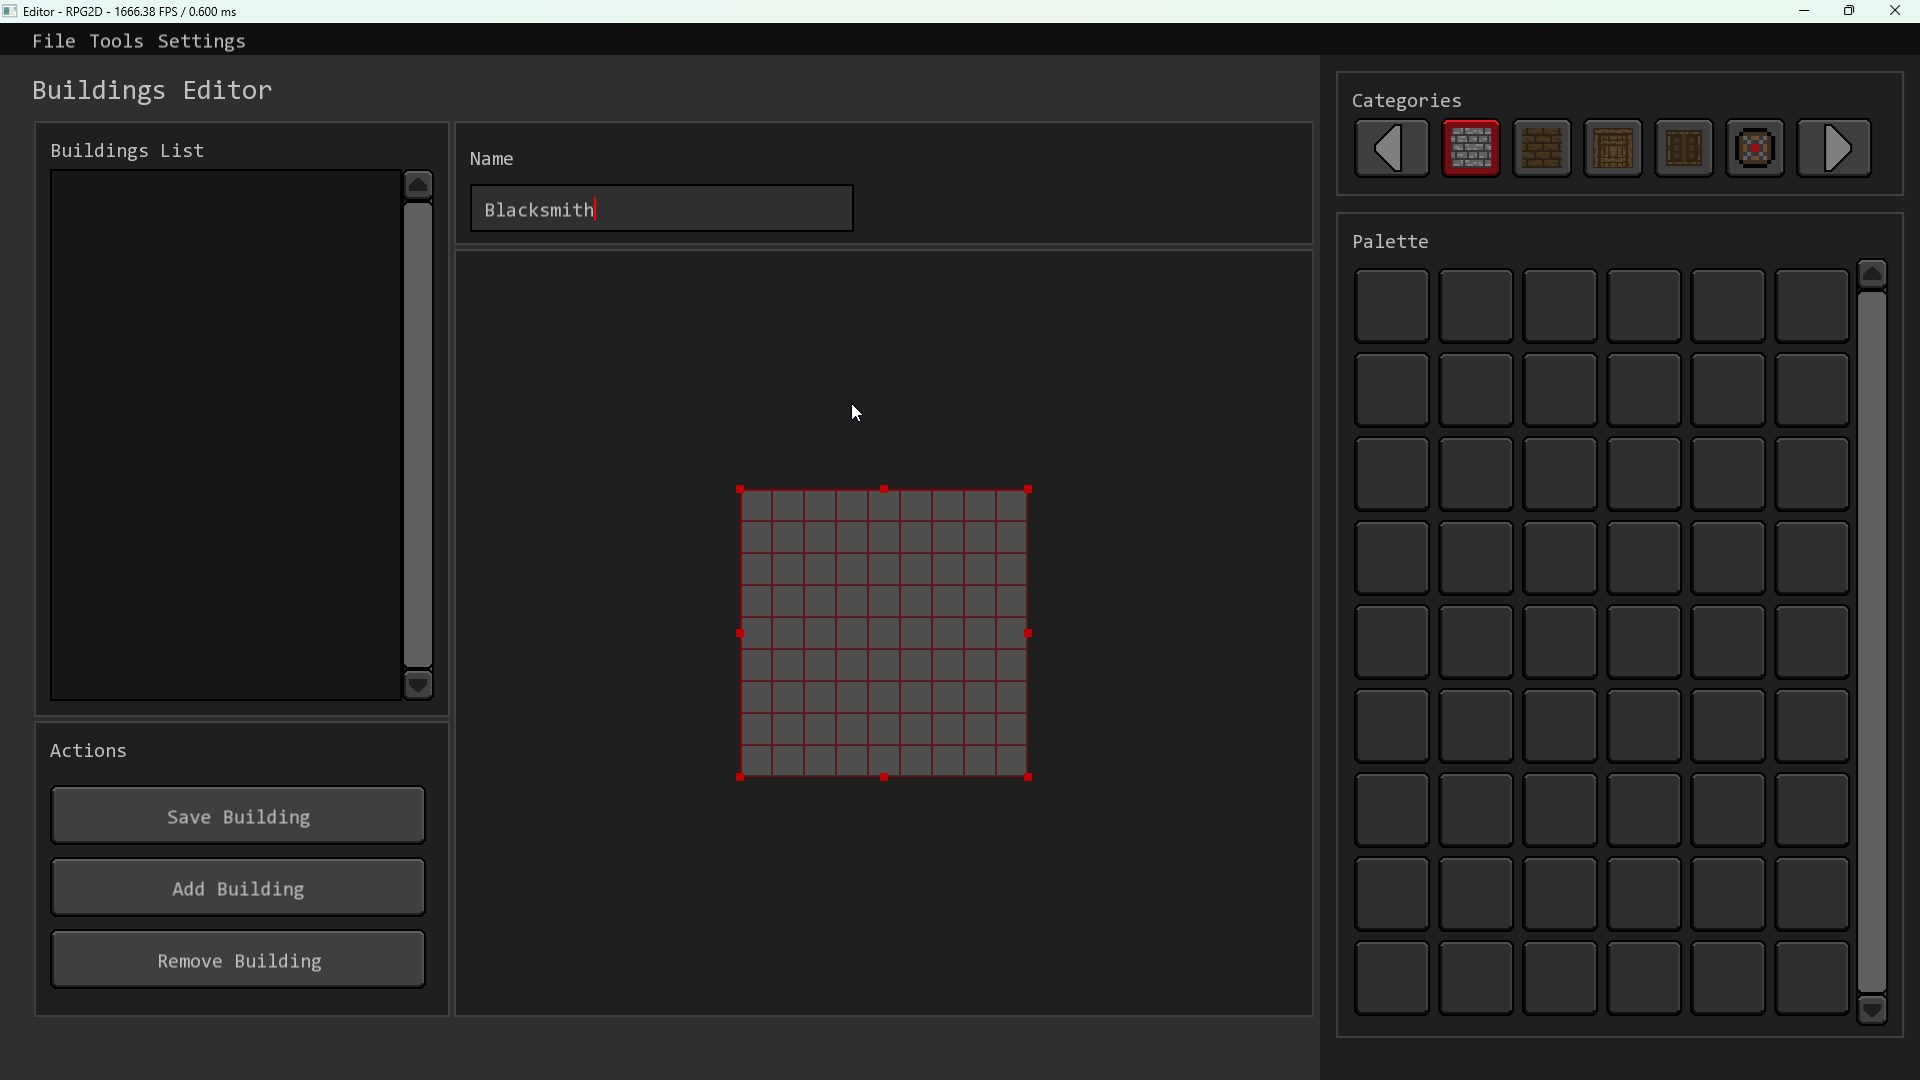
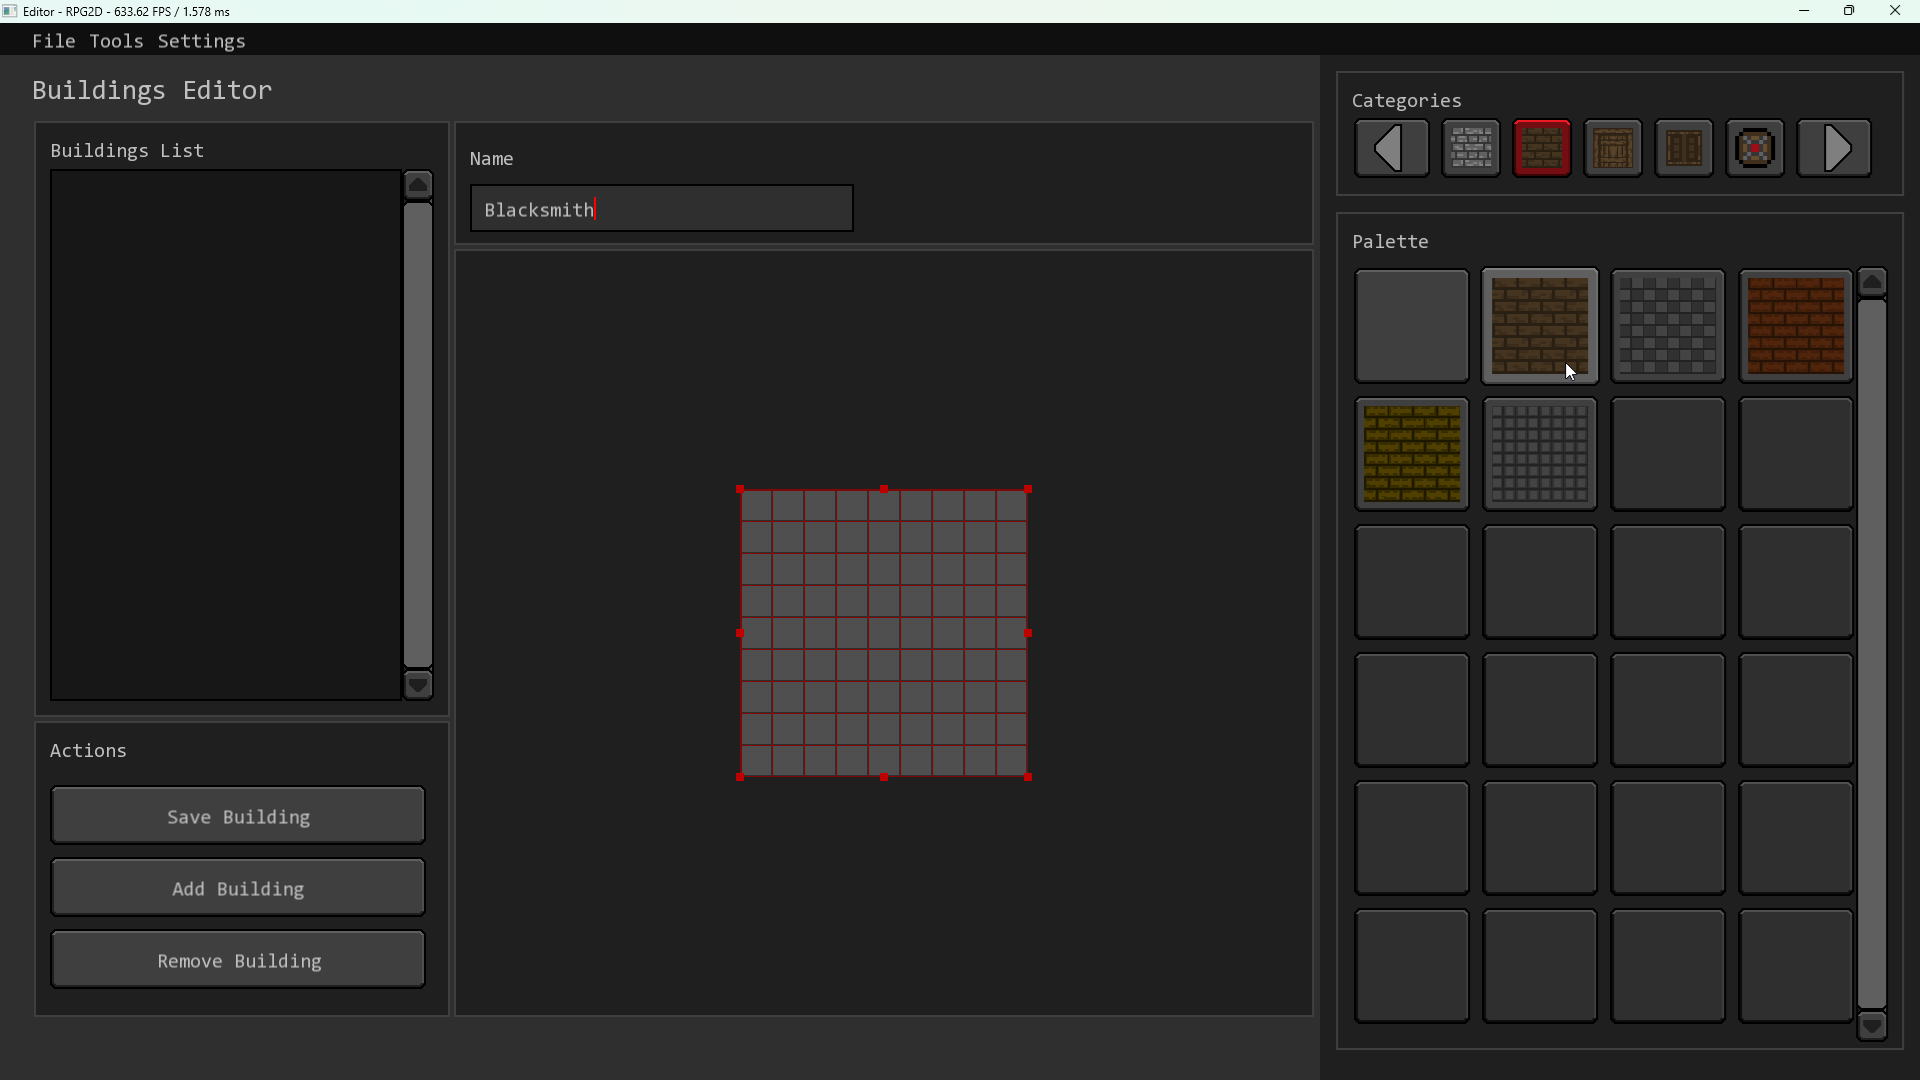
Add - Different Floor Types to the Palette

Changed region(s): [[0.6875, 0.2444, 1.0, 0.9778], [0.75, 0.0917, 0.8438, 0.1833], [0.0625, 0.0, 0.125, 0.0306]]

diff --git a/Editor-RPG2D/src/Components/Palette/FloorSlot.cpp b/Editor-RPG2D/src/Components/Palette/FloorSlot.cpp
@@ -1,0 +1,48 @@
+#include "Components/Palette/FloorSlot.hpp"
+#include "RenderWindow.hpp"
+
+std::shared_ptr<Texture> FloorSlot::_floorset = nullptr;
+
+FloorSlot::FloorSlot(std::shared_ptr<Texture> texture, std::shared_ptr<Texture> hoverTexture, std::shared_ptr<Texture> pressTexture, std::shared_ptr<Texture> inactiveTexture, sf::Vector2i position, int index) : Slot(texture, hoverTexture, pressTexture, inactiveTexture, position) {
+	if(_floorset == nullptr)
+		_floorset = textures_manager->getTexture(L"assets\\tex\\floorset.png");
+
+	_index = index;
+}
+
+FloorSlot::~FloorSlot() {
+
+}
+
+void FloorSlot::setIndex(int index) {
+	_index = index;
+}
+
+void FloorSlot::cursorHover() {
+	ButtonWithSprite::cursorHover();
+}
+
+void FloorSlot::handleEvent(const sf::Event& event) {
+	ButtonWithSprite::handleEvent(event);
+}
+
+void FloorSlot::update() {
+	ButtonWithSprite::update();
+}
+
+void FloorSlot::draw() {
+	Slot::draw();
+
+	if(_index < 0)
+		return;
+
+	sf::Vector2f size(96, 96);
+	sf::Vector2f offset((120.f - size.x) / 2.f, (120.f - size.y) / 2.f);
+
+	sf::Sprite sprite(*_floorset->_texture);
+	sprite.setScale(sf::Vector2f(size.x / 64.f, size.y / 64.f));
+	sprite.setPosition(sf::Vector2f(_rect.position) + offset);
+	sprite.setTextureRect(sf::IntRect(sf::Vector2i(_index * 64, 0), sf::Vector2i(64, 64)));
+
+	Main::render_window->draw(sprite);
+}

diff --git a/Editor-RPG2D/src/Components/Palette/Slots.cpp b/Editor-RPG2D/src/Components/Palette/Slots.cpp
@@ -2,6 +2,8 @@
 #include "Objects/Terrain.hpp"
 #include "Components/Palette/TerrainSlot.hpp"
 #include "Components/Palette/GameObjectSlot.hpp"
+#include "Components/Palette/FloorSlot.hpp" // TO-DO - to delete
+#include "Components/Palette/Slot.hpp" // TO-DO - to delete
 #include "PrefabsManager.hpp"
 #include "RenderWindow.hpp"
 #include "Theme.hpp"
@@ -9,7 +11,7 @@
 #include "Editors/MapEditor/Editor.hpp"
 #include "Editors/MapEditor/Map/Tileset.hpp"
 #include "TexturesManager.hpp"
-#include "Components/Palette/Slot.hpp" // TO-DO - to delete
+
 
 Slots::Slots() {
 
@@ -114,13 +116,25 @@ void Slots::createSlots(sf::Vector2i slotsCount) {
 			}
 			else if (_type == ObjectType::Wall || _type == ObjectType::Floor || _type == ObjectType::Door || _type == ObjectType::Window || _type == ObjectType::WallMounted) {
 				position = sf::Vector2i(_rect.position.x + _outer_margin + x * (120 + _inner_margin), _rect.position.y + _main_margin + _outer_margin + _top_margin + y * (120 + _inner_margin));
-				_slots.emplace_back(std::make_shared<Slot>(
-					slotTexture,
-					slotHoverTexture,
-					slotPressTexture,
-					slotInactiveTexture,
-					position
-				));
+				if (_type == ObjectType::Floor) {
+					
+					std::shared_ptr<FloorSlot> slot = std::make_shared<FloorSlot>(slotTexture, slotHoverTexture, slotPressTexture, slotInactiveTexture, position);
+					int index = y * _slotsCount.x + x;
+					if (index >= FloorSlot::_floorset->_texture->getSize().x / 64)
+						index = -1;
+
+					slot->setIndex(index);
+					_slots.emplace_back(slot);
+				}
+				else {
+					_slots.emplace_back(std::make_shared<Slot>(
+						slotTexture,
+						slotHoverTexture,
+						slotPressTexture,
+						slotInactiveTexture,
+						position
+					));
+				}
 			}
 			else {
 				position = sf::Vector2i(_rect.position.x + _outer_margin + x * (80 + _inner_margin), _rect.position.y + _main_margin + _outer_margin + _top_margin + y * (80 + _inner_margin));
@@ -248,6 +262,22 @@ void Slots::loadObjects() {
 			}
 		}
 
+		return;
+	}
+
+	if(_type == ObjectType::Floor) {
+		for (int i = 0; i < (_slotsCount.x) * (_slotsCount.y + 1); i++) {
+			if (i < FloorSlot::_floorset->_texture->getSize().x / 64) {
+				_slots[i]->_object = std::weak_ptr<Object>();
+				_slots[i]->_animator = nullptr;
+				_slots[i]->setActive(true);
+			}
+			else {
+				_slots[i]->_object = std::weak_ptr<Object>();
+				_slots[i]->_animator = nullptr;
+				_slots[i]->setActive(false);
+			}
+		}
 		return;
 	}
 

diff --git a/Editor-RPG2D/include/Components/Palette/FloorSlot.hpp b/Editor-RPG2D/include/Components/Palette/FloorSlot.hpp
@@ -1,0 +1,19 @@
+#pragma once
+#include "Components/Palette/Slot.hpp"
+
+class FloorSlot : public Slot {
+public:
+
+	static std::shared_ptr<Texture> _floorset;
+	int _index = -1;
+
+	FloorSlot(std::shared_ptr<Texture> texture, std::shared_ptr<Texture> hoverTexture, std::shared_ptr<Texture> pressTexture, std::shared_ptr<Texture> inactiveTexture, sf::Vector2i position = sf::Vector2i(0, 0), int index = -1);
+	~FloorSlot();
+
+	void setIndex(int index);
+
+	void cursorHover();
+	void handleEvent(const sf::Event& event);
+	void update();
+	void draw();
+};

diff --git a/Editor-RPG2D/src/TexturesManager.cpp b/Editor-RPG2D/src/TexturesManager.cpp
@@ -62,6 +62,7 @@ void TexturesManager::loadAllTextures() {
 
     // tileset
     texturePaths.push_back(L"assets\\tex\\tileset.png");
+    texturePaths.push_back(L"assets\\tex\\floorset.png");
 
 	// controls
     texturePaths.push_back(L"assets\\tex\\controls\\scrollbar32\\up.png");
@@ -193,7 +194,7 @@ void TexturesManager::loadAllTextures() {
     texturePaths.push_back(L"assets\\tex\\palette\\slots\\slot_120.png");
     texturePaths.push_back(L"assets\\tex\\palette\\slots\\slot_120_hover.png");
     texturePaths.push_back(L"assets\\tex\\palette\\slots\\slot_120_press.png");
-    texturePaths.push_back(L"assets\\tex\\palette\\slots\\slot_160_inactive.png");
+    texturePaths.push_back(L"assets\\tex\\palette\\slots\\slot_120_inactive.png");
     texturePaths.push_back(L"assets\\tex\\palette\\slots\\selected_120.png");
     texturePaths.push_back(L"assets\\tex\\palette\\slots\\selected_120_hover.png");
     texturePaths.push_back(L"assets\\tex\\palette\\slots\\selected_120_press.png");